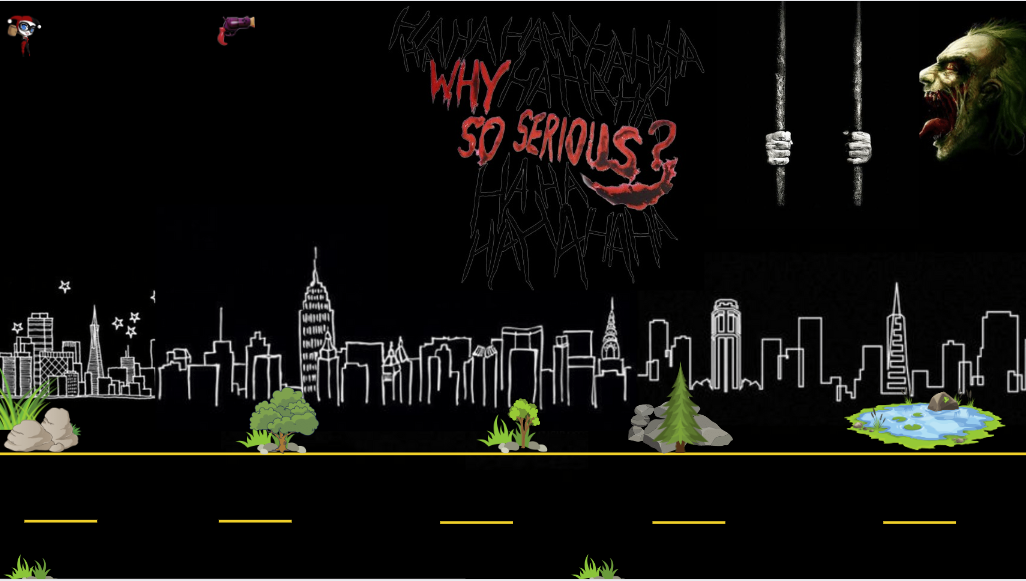
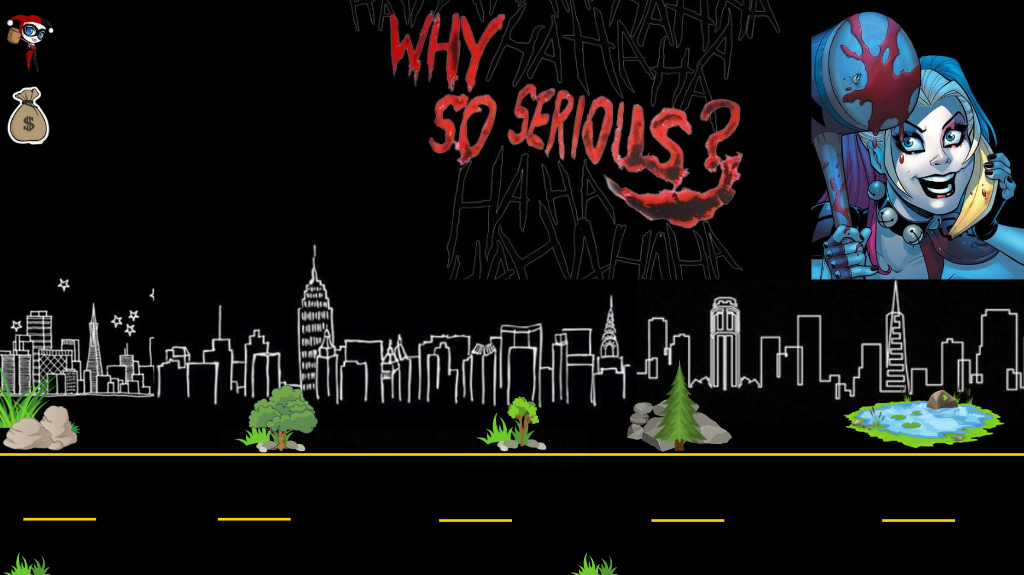
se ponen stylos y colocacion de vidas y game over

diff --git a/code.js b/code.js
@@ -2,34 +2,30 @@ let canvas = document.querySelector('canvas')
 let ctx = canvas.getContext('2d');
 
 let iniciar = false; //variable para controlar inicio
-let inteval ; //controla velocidad de videojuego , actualizacion
+let interval;
+let interval2; //controla velocidad de videojuego , actualizacion
 let martillos =[]  //se crea array martillo
 let enemigos = []   // array enemigos
 let frames = 0;     //indica cada que tiempo se actualiza enemigos
 let pudines =[]
 let batmanArray =[]
-
-
+let vidasArray = []
 
 
 // se crea objeto con todas las imagenes
 const imagen ={
     portada:'assets/imagenes/portada.png',
-    instrucciones:'assets/imagenes/instrucciones.png',
-    dinero: 'assets/imagenes/dinero.png',
+    instrucciones:'assets/imagenes/instrucciones.png',    
     botom: 'assets/imagenes/botom.png',
     fondoPrincipal:'assets/imagenes/fondoPrincipal.png',
     harley:'assets/imagenes/harleyPer.png',
-    harleyIzq:'assets/imagenes/harleyIzq.png',
-    joker: 'assets/imagenes/joker.png',
+    harleyIzq:'assets/imagenes/harleyIzq.png',    
     logo: 'assets/imagenes/logo.png',
     martilloDer: 'assets/imagenes/martilloDer.png',
     martilloIzq: 'assets/imagenes/martilloIzq.png',
     murcielago: 'assets/imagenes/murcielago.jpg',
-    pantallaFinal: 'assets/imagenes/pantallaFinal.png',
-    pinguiDerecha: 'assets/imagenes/pinguinoDerecha.png',
-    pinguino: 'assets/imagenes/pinguino.png',
-    pistola: 'assets/imagenes/pistola.png',
+    pantallaFinal: 'assets/imagenes/pantallaFinal.jpg',    
+    pinguino: 'assets/imagenes/pinguino.png',    
     espantapajaro: 'assets/imagenes/espantapajaro.png', 
     pudin: 'assets/imagenes/pudin.png',
 
@@ -37,8 +33,8 @@ const imagen ={
 // creo personaje
 class harley {
     constructor(){
-        this.x = 25;
-        this.y = 395;
+        this.x = 350;
+        this.y = 400;
         this.width = 90;
         this.height = 90;
         this.vida = 3;              //pendiente
@@ -76,10 +72,10 @@ class harley {
             return false
             }
     }
-    dibujarScore() {               
-        ctx.font = "16px Arial";
-        ctx.fillStyle = "#B268E0";
-        ctx.fillText("Score: "+this.puntuacion, 10, 80);
+    dibujarDinero() {               
+        ctx.font = "26px Arial";
+        ctx.fillStyle = "#fff";
+        ctx.fillText(" "+this.puntuacion, 70, 110);
     }
     
 }  
@@ -88,6 +84,7 @@ const golpeaEnemigo =()=>{
         if(personaje.chocarEnemigo(ene)){
             enemigos.splice(index,1)
             personaje.vida -=1
+            vidadsArray.pop()
         }
     })
 }        
@@ -149,8 +146,8 @@ class pudin{                               //se crea postre que da vida a harley
         this.posicion =posicion
         this.x = posicion
         this.y = 0
-        this.width = 25
-        this.height = 25
+        this.width = 35
+        this.height = 35
         this.velocidad = velocidad
         this.img = new Image();
         this.dibujarPudin()
@@ -166,7 +163,8 @@ const tocarPudin =()=>{                         // se realiza que al tocar al pe
     pudines.forEach((pudi,index)=>{
         if(personaje.chocarEnemigo(pudi)){
             pudines.splice(index,1)
-            personaje.puntuacion += 1
+            personaje.vida+= 1
+            vidadsArray.push(1)
         }
     })
     
@@ -198,8 +196,8 @@ class batman{                               //se crea imagen que le restara punt
         this.posicion =posicion
         this.x = posicion
         this.y = 0
-        this.width = 25
-        this.height = 25
+        this.width = 35
+        this.height = 35
         this.velocidad = velocidad
         this.img = new Image();
         this.dibujarBatman()
@@ -338,6 +336,16 @@ const borraMartillo =() =>{                         //indico que si mi marrtillo
     })
 }
 
+const dibujarVidas=()=>{
+    let aux = 70
+    let img = new Image()
+    img.src=imagen.pudin
+    vidadsArray.forEach((vida)=>{
+        ctx.drawImage(img,aux,30,30,30)
+        aux +=40
+    })
+}
+
 const fondo = new background(); //se inicializa fondo y personaje
 const personaje  = new harley() 
 
@@ -378,6 +386,34 @@ window.addEventListener('keyup',({keyCode}) =>{
     }
 })
 
+const gameOver = ()=>{
+    clearInterval(interval)
+    let img = new Image()
+    martillos =[]  //se crea array martillo
+    enemigos = []   // array enemigos
+    pudines =[]
+    batmanArray =[]
+    vidadsArray = []
+    canvas.style.display="none"
+    let pantallaFinal = document.getElementById('pantallaFinal')
+    pantallaFinal.style.display="flex"
+    
+}
+
+const checarVida=()=>{
+    if(personaje.vida <= 0){
+        gameOver()
+    }
+}
+const dibujar=()=>{
+    dibujarVidas()
+        personaje.dibujarHarley()
+        dibujarEnemigo()
+        dibujarMartillo()
+       dibujarPudin() 
+       dibujarBatman() 
+       personaje.dibujarDinero()
+}
 //funcion para actualizar el juego y pintar 
 const update =()=>{
     frames++
@@ -392,20 +428,15 @@ const update =()=>{
     golpeaEnemigo()
     tocarBatman()
     tocarPudin()
-   
+    checarVida()
     setInterval(()=>{
-        personaje.dibujarHarley()
-        dibujarEnemigo()
-        dibujarMartillo()
-       dibujarPudin() 
-       dibujarBatman() 
-       personaje.dibujarScore()
-       personaje.dibujarVida()      
+        dibujar()
     })    
 }
 
 //se inicializa el juego
 const iniciarJuego =()=>{
+    vidadsArray=[1,2,3]
 
 // se actualiza juego 800 fotogramas x segundo
     interval = setInterval(update,1000/800)

diff --git a/styles.css b/styles.css
@@ -1,7 +1,7 @@
 body {
     margin: 0;
     padding: 0;
-    background-image: url(./assets/imagenes/body.jpeg);
+    background-image: url(./assets/imagenes/body.jpg);
     background-position: center;
      
  }
@@ -17,7 +17,7 @@ body {
  }
  
  canvas {
-     border:5px solid white;    
+     border:10px solid #DA4BE1;    
      border-radius: 20px;
      
  }
@@ -32,11 +32,26 @@ body {
  }
  
  .start img {
-    border:3px solid rgb(141, 9, 93);
+    border:5px solid #40B93C;
     border-radius: 12px;
     margin-top: 395px;
     width: 110px;
     height: 50px;
  
  }
+ #pantallaFinal{
+    display: none;
+    width: 1000px;
+    height: 500px;
+    background-image: url(./assets/imagenes/pantallaFinal.jpg);
+    background-size: cover;
+    border:10px solid red; 
+    border-radius: 20px;
+ }
+
+    
+
+    
+     
+
 

diff --git a/index.html b/index.html
@@ -10,10 +10,11 @@
 <body>    
   <div class="canvas1">
     <canvas id="lienzo" width="1000" height="500" ></canvas>     
+    <div id="pantallaFinal"></div>     
   </div> 
   <div class="start" id="start">
     <img src="./assets/imagenes/botom.png" id ='boton-start'"/>
-  </div>      
+  </div> 
 </body>
 <script type="text/javascript" src="code.js"></script>
 </html>
